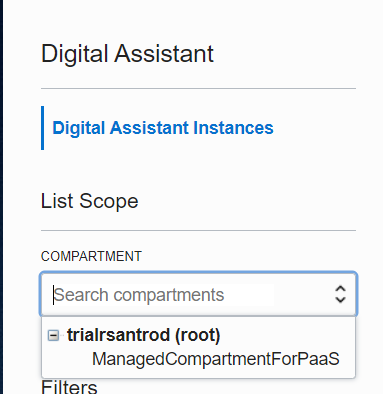
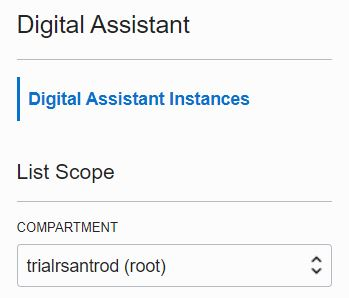
changes to scenario 1

Changed region(s): [[0.0, 0.0, 0.9456, 1.0], [0.086, 0.2718, 0.7163, 0.3926]]

diff --git a/oda-provisioning/step4.md b/oda-provisioning/step4.md
@@ -1,0 +1,10 @@
+Now, you have requested the creation of your Oracle Digital Assistant Instance and it will take a few minutes to complete!
+
+![OCI console - Instance in Creating status](assets/creating-instance-status.jpg)
+
+You will receive an email once the instance is created and in Active status. To access the environment, you can click on the button with 'three dots' and select 'Service Console'
+
+![OCI console - Instance in Creating status](assets/access-service-console.jpg)
+
+Congratulations! You have now finished the first scenario and have your Oracle Digital Assistance Instance set up!
+You can now move to the next one, where you will create an Skill and define Intents and Entities.

diff --git a/oda-provisioning/step2.md b/oda-provisioning/step2.md
@@ -2,6 +2,6 @@ Once you click on it, on the following screen you will need to select a Compartm
 
 As explained in the past scenarios, a Compartment allows you to organize and isolate your cloud resources to control the access to those resources.
 
-For this hands-on, you can select the default compartment 'ManagedCompartmentForPaaS'. Then proceed to the next step!
+For this hands-on, you can select the root compartment. Then proceed to the next step!
 
 ![OCI console - Digital Assistant - Select Compartment](assets/select-compartment.jpg)

diff --git a/oda-provisioning/step3.md b/oda-provisioning/step3.md
@@ -10,6 +10,10 @@ In the dialog, you have to mandatory fill name and shape.
 
 2. For the shape, you have two options:
 
-  * Development
+  * Development: minimum charge of 50 request per hour at the time of writing.
 
-  * Production
+  * Production: minimum charge of 250 request per hour at the time of writing.
+
+As you can see, the only difference is the number of requests and, for this hands-on, you can use the development shape so yoour credits will last longer.
+
+Once you have filled the details click on 'Create'.
